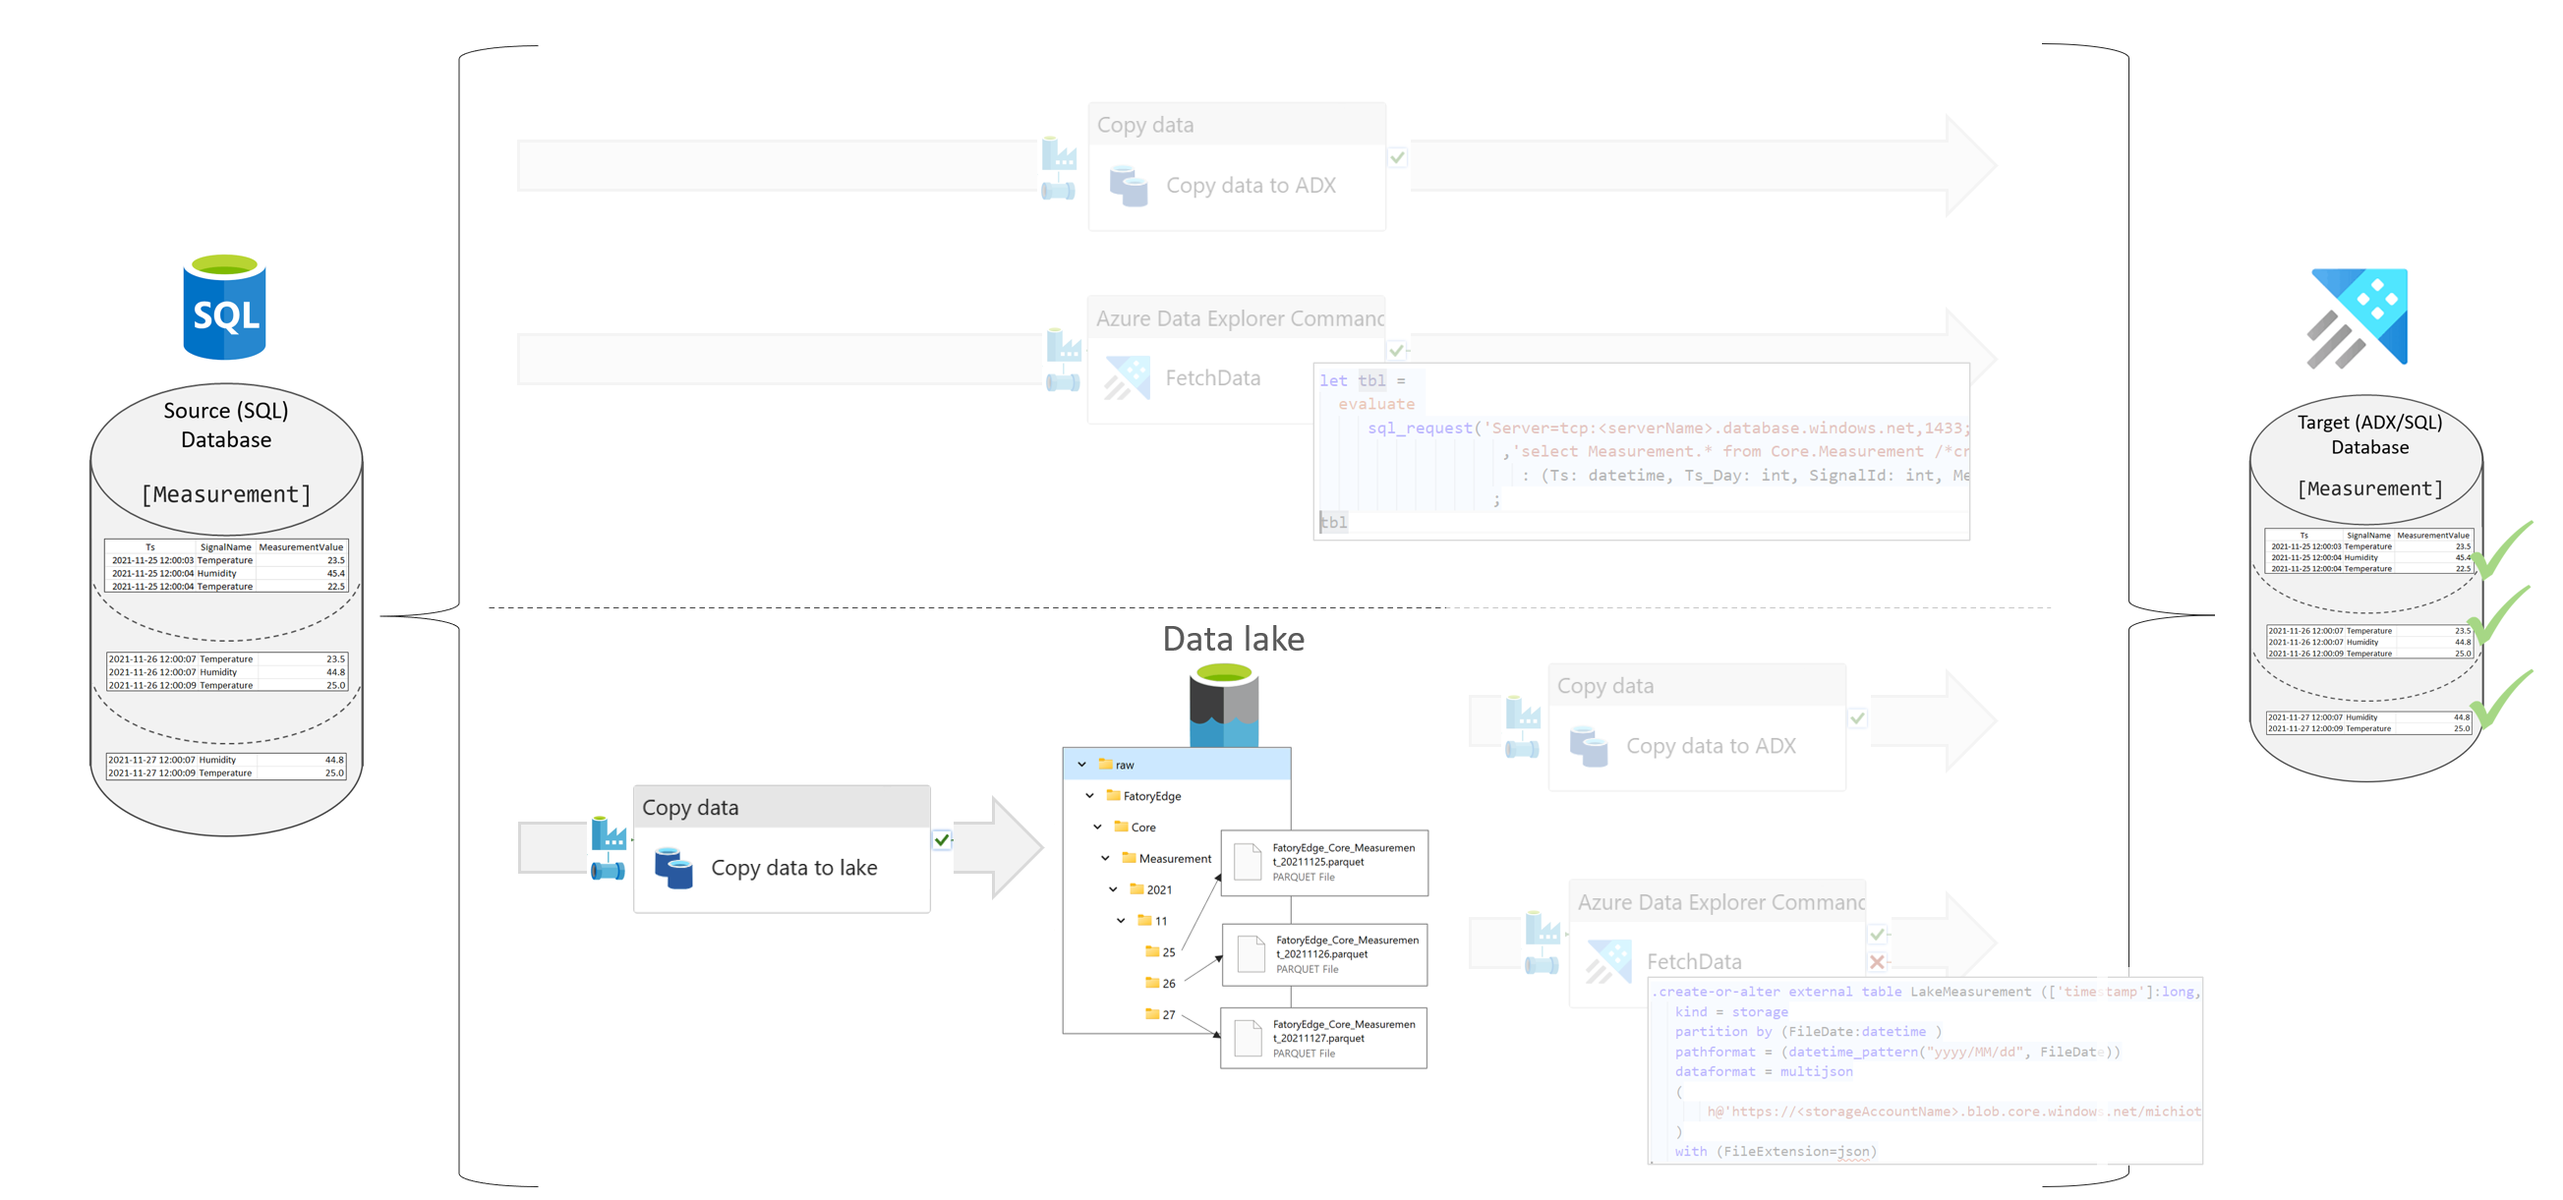
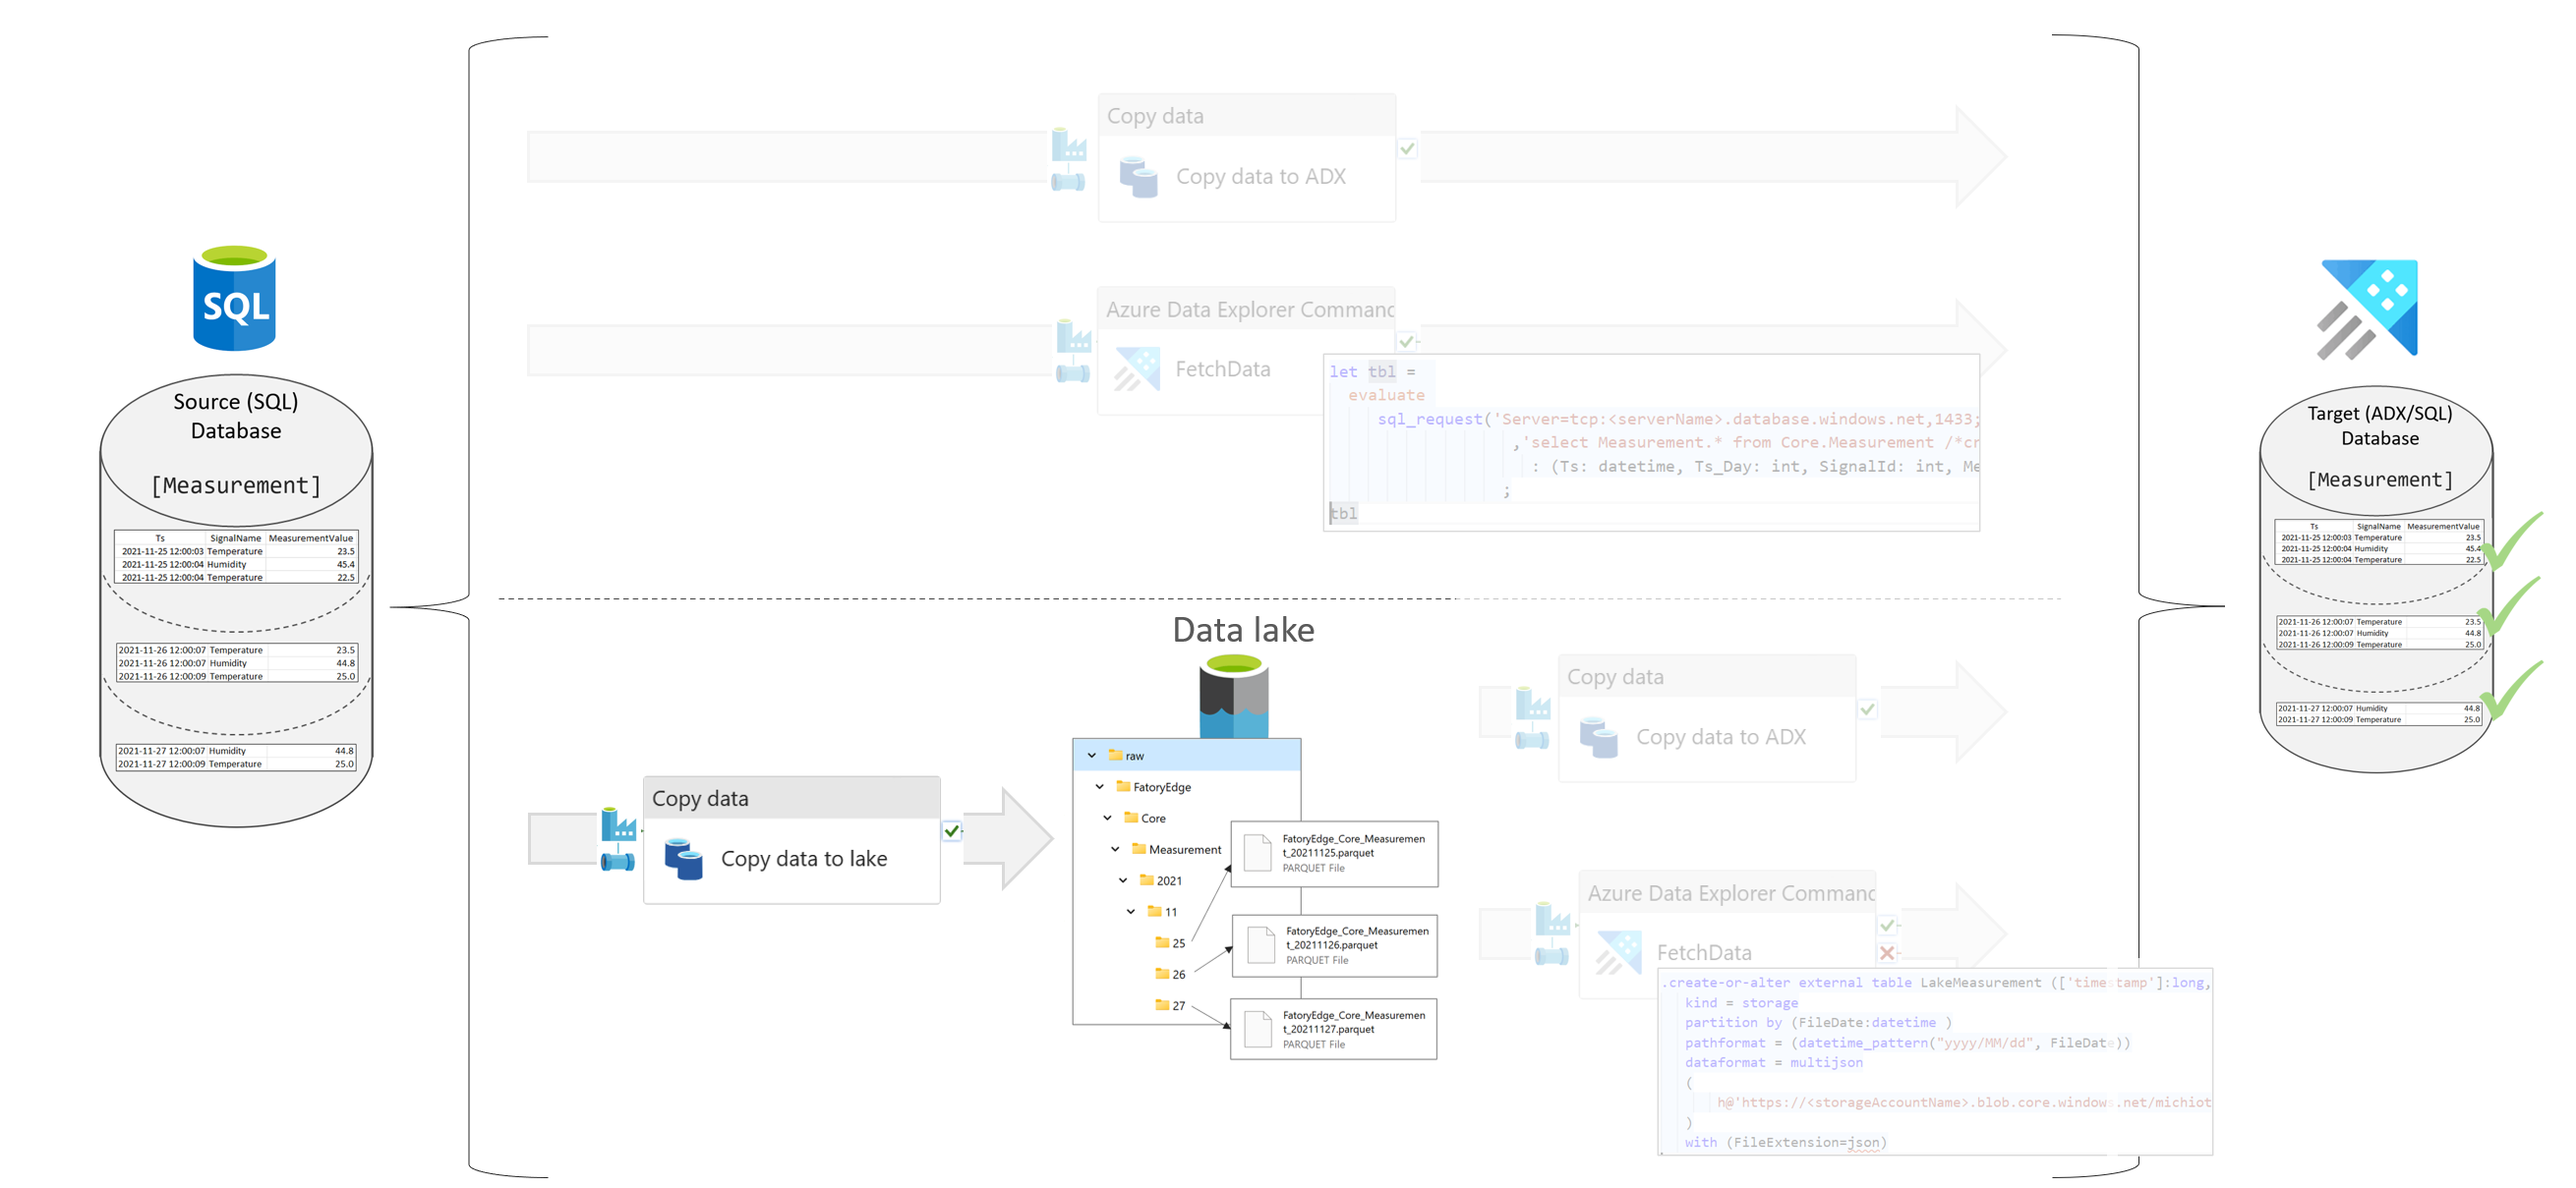
Doku updated

diff --git a/doc/toLake/30SQLToLakeCopy.md b/doc/toLake/30SQLToLakeCopy.md
@@ -7,7 +7,7 @@ As simple way to transfer data from a SQL database (any relational database that
 
 The source is a table in the Azure SQL database `Core.Measurement` and the destination is a folder structure with files in the data lake. The data is partitioned by a folder structure YYYY/MM/DD.
 
-![Senario Overview](./../../doc/assets/sql-to-adx/SMDT_LaketoADXScenario.png)
+![Senario Overview](./../../doc/assets/sql-to-adx/SMDT_SQLtoLakeScenario.png)
 
 <br>
 <br>
@@ -15,7 +15,7 @@ The source is a table in the Azure SQL database `Core.Measurement` and the desti
 You can find a step guide, how to define metadata and deploy the pipeline in [Details](./10SQLToADXCopy.md)
 
 #### Source Files
- * [Required objects (SQL + ADX) and SQL meta data](./../../sqldb/SDMT_DB/ScriptToGenerateMetaTestData/ToLake/SMDT_SQLtoLakeScenario.png)
+ * [Required objects (SQL + ADX) and SQL meta data](./../../sqldb/SDMT_DB/ScriptToGenerateMetaTestData/ToLake/SMDT_SQLtoLakeScenario.sql)
  * Pipeline definition 
    * [Pipeline calling ADX function with one string parameter ('YYYYMMDD')](./../../pipeline/toLake/SDMT-SQL-Lake.json)
    
